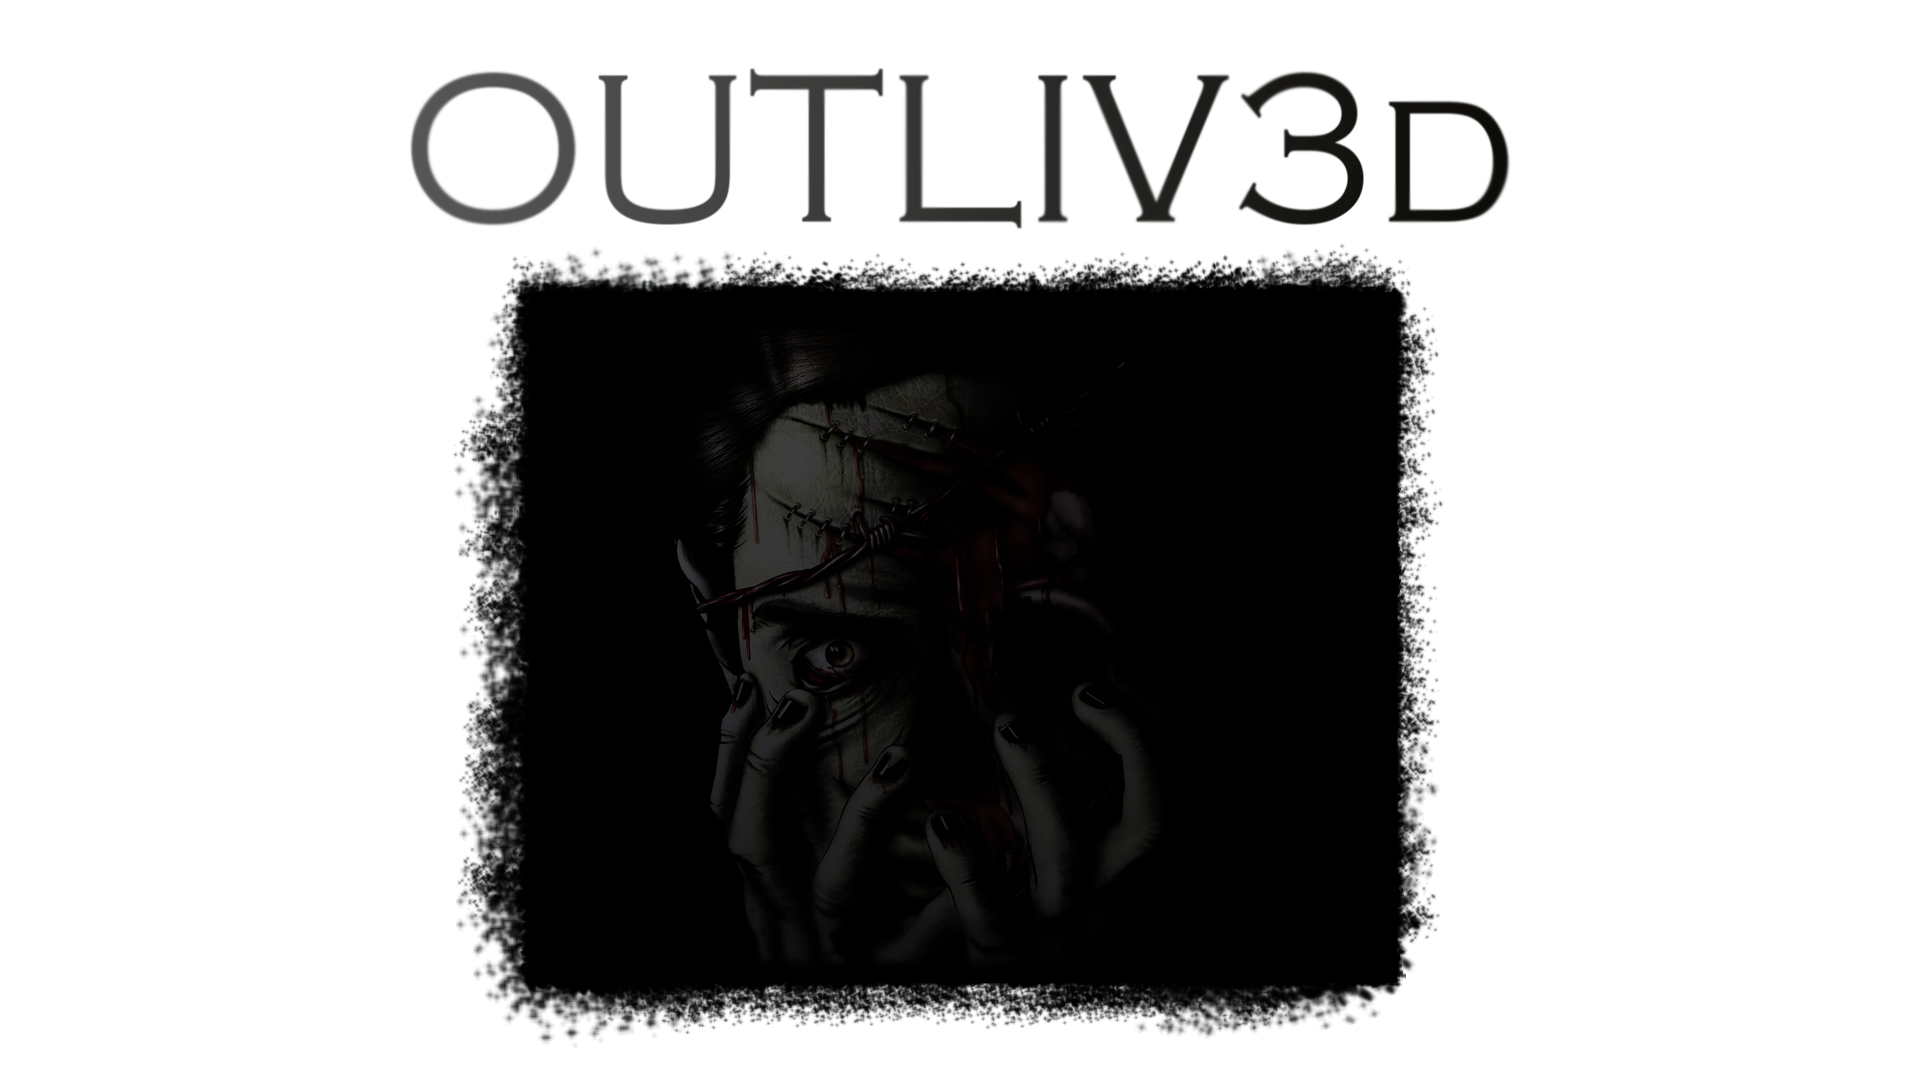
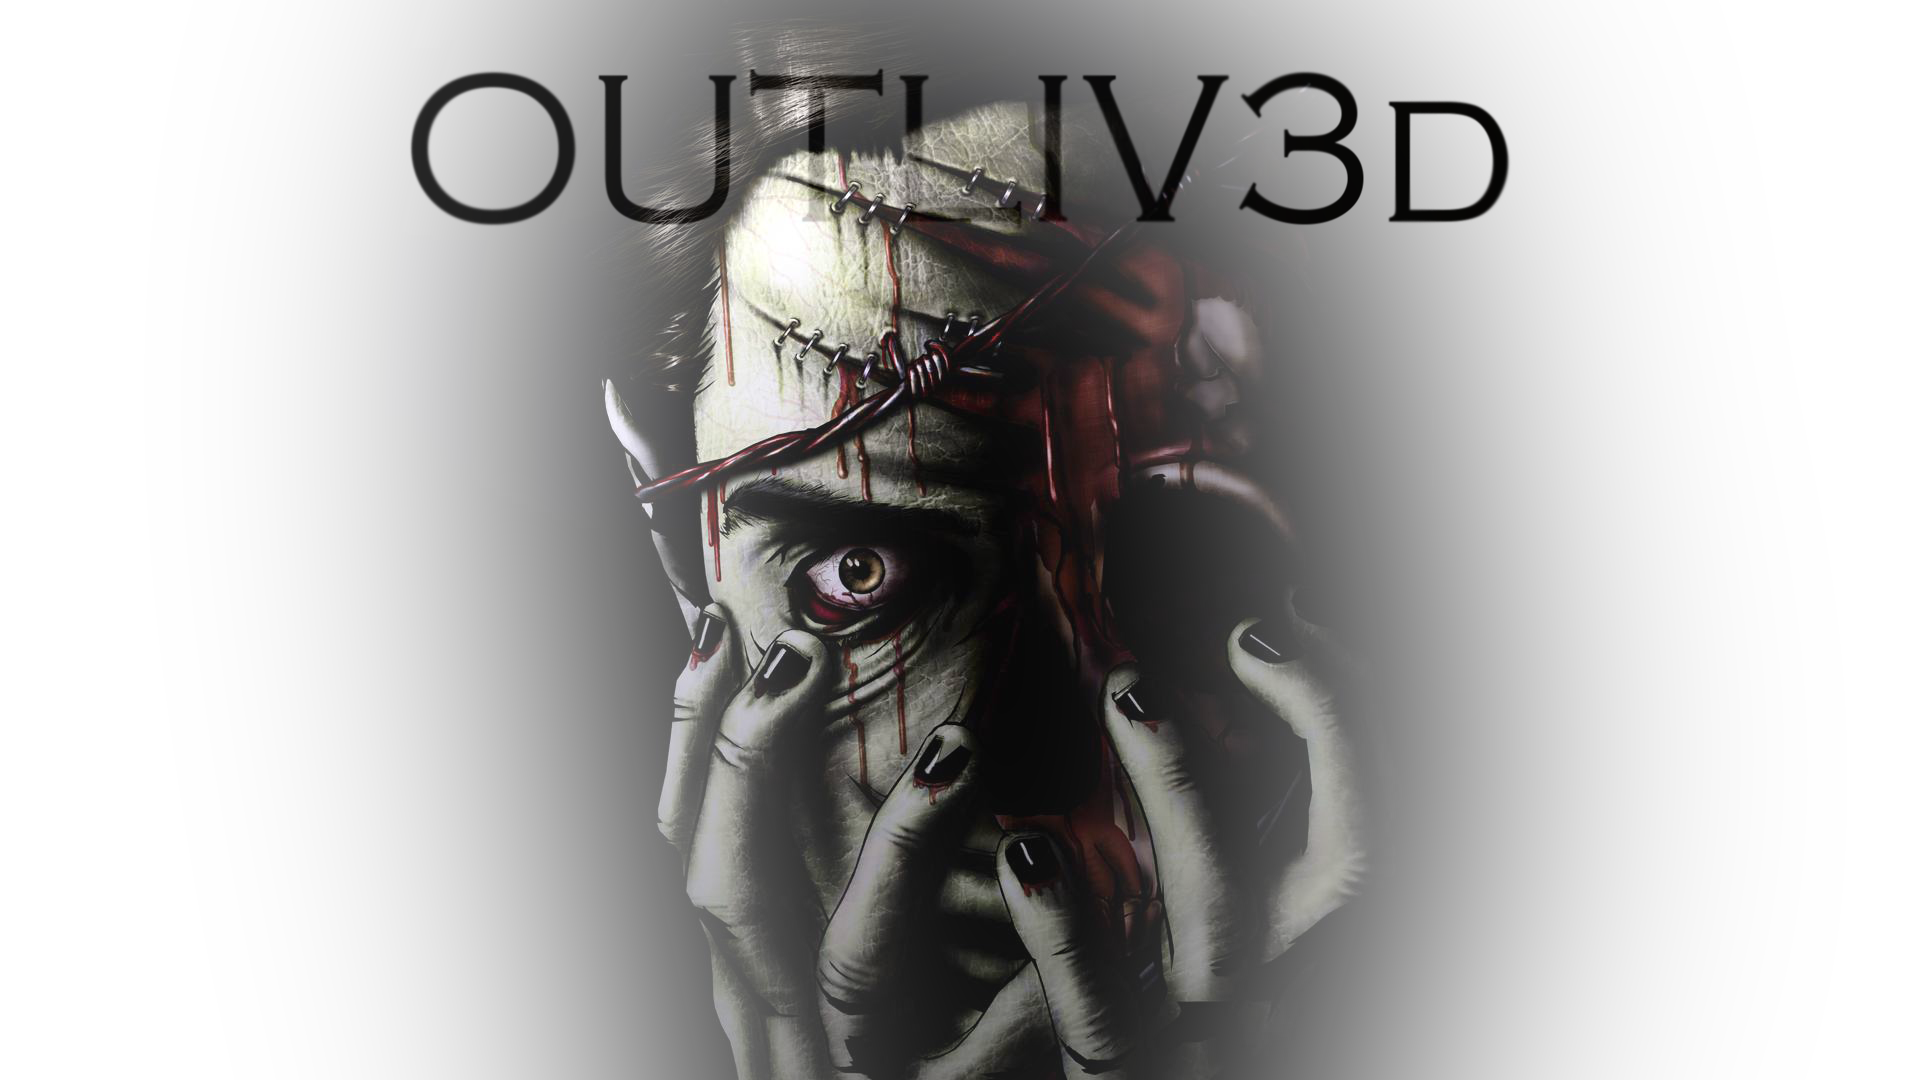
menu

diff --git a/Game/Services/MenuHelper.cs b/Game/Services/MenuHelper.cs
@@ -5,7 +5,13 @@ namespace Game.Services
 {
     public class MenuHelper
     {
-        public static void DrawBackground(SpriteBatch sb, GameContent gameContent)
+       // private GameManager gm;
+        //private bool moveRight = false;
+       //public MenuHelper(GameManager gm)
+       //{
+       //    this.gm = gm;
+       //}
+        public static void DrawBackgroundWithScaling(SpriteBatch sb, GameContent gameContent, float speed)
         {
             if (GameManager.Scale <= GameManager.MaxScale && GameManager.Scale >= GameManager.MinScale)
             {
@@ -20,11 +26,11 @@ namespace Game.Services
 
                 if (GameManager.MoveHigher)
                 {
-                    GameManager.Scale = GameManager.Scale + 0.0001f;
+                    GameManager.Scale = GameManager.Scale + speed;
                 }
                 else
                 {
-                    GameManager.Scale = GameManager.Scale - 0.0001f;
+                    GameManager.Scale = GameManager.Scale - speed;
                 }
             }
 
@@ -34,6 +40,85 @@ namespace Game.Services
                 color: Color.White,
                 scale: new Vector2(GameManager.Scale)
             );
+        }
+
+        //public static void DrawBackgroundMovingSideways(SpriteBatch sb, GameContent gameContent, Viewport viewport, float speed)
+        //{
+        //    var bounds = gameContent.BackgroundFog.Bounds;
+        //   // var viewport = gm.Engine.Dependencies.GraphicsDeviceManager.GraphicsDevice.Viewport;
+        //    Vector2 position = Vector2.Zero;
+        //    Vector2 Offset = Vector2.Zero;
+
+        //    if (GameManager.Scale <= GameManager.MaxScale && GameManager.Scale >= GameManager.MinScale)
+        //    {
+        //        if (viewport.X <= bounds.X)
+        //        {
+        //            GameManager.MoveRight = true;
+        //        }
+        //        if (viewport.X >= viewport.Width - bounds.Width)
+        //        {
+        //            GameManager.MoveRight = false;
+        //        }
+
+        //        if (GameManager.MoveRight)
+        //        {
+        //            //Calculate the distance to move our image, based on speed
+        //            Vector2 distance = direction * Speed * elapsed;
+
+        //            //Update our offset
+        //            Offset += distance;
+        //            position = new Vector2(bounds.X - speed);
+        //        }
+        //        else
+        //        {
+        //            position = new Vector2(bounds.X + speed);
+        //        }
+        //    }
+
+        //    sb.Draw(gameContent.BackgroundFog, new Vector2(viewport.X, viewport.Y), Rectangle, Color.White, 0, Vector2.Zero, 1, SpriteEffects.None, 1);
+        //}
+
+        public class Background
+        {
+            private Texture2D Texture;      //The image to use
+            private Vector2 Offset;         //Offset to start drawing our image
+            public Vector2 Speed;           //Speed of movement of our parallax effect
+            public float Zoom;              //Zoom level of our image
+
+            private Viewport Viewport;      //Our game viewport
+
+            //Calculate Rectangle dimensions, based on offset/viewport/zoom values
+            private Rectangle Rectangle
+            {
+                get { return new Rectangle((int)(Offset.X), (int)(Offset.Y), (int)(Viewport.Width / Zoom), (int)(Viewport.Height / Zoom)); }
+            }
+
+            public Background(Texture2D texture, Vector2 speed, float zoom)
+            {
+                Texture = texture;
+                Offset = Vector2.Zero;
+                Speed = speed;
+                Zoom = zoom;
+            }
+
+            public void Update(GameTime gametime, Vector2 direction, Viewport viewport)
+            {
+                float elapsed = (float)gametime.ElapsedGameTime.TotalSeconds;
+
+                //Store the viewport
+                Viewport = viewport;
+
+                //Calculate the distance to move our image, based on speed
+                Vector2 distance = direction * Speed * elapsed;
+
+                //Update our offset
+                Offset += distance;
+            }
+
+            public void Draw(SpriteBatch spriteBatch)
+            {
+                spriteBatch.Draw(Texture, new Vector2(Viewport.X, Viewport.Y), Rectangle, Color.White, 0, Vector2.Zero, Zoom, SpriteEffects.None, 1);
+            }
         }
     }
 }

diff --git a/Game/Menu/States/MainMenu.cs b/Game/Menu/States/MainMenu.cs
@@ -21,6 +21,8 @@ namespace Game.Menu.States
         private OptionsState currentPosition = OptionsState.Continue;
         private Viewport viewport;
         private SpriteBatch sb = GameDependencies.Instance.SpriteBatch;
+        private MenuHelper.Background fogBackground;
+        private MenuHelper.Background mainBackground;
 
         // different menu options
         private enum OptionsState
@@ -36,6 +38,8 @@ namespace Game.Menu.States
             game = this.gameManager.Engine.Dependencies.Game;
             controls = new ControlsConfig(0, 2, gameManager);
             viewport = game.GraphicsDevice.Viewport;
+            mainBackground = new MenuHelper.Background(gameManager.GameContent.Background, new Vector2(10, 10), 1.5f);
+            fogBackground = new MenuHelper.Background(gameManager.GameContent.BackgroundFog, new Vector2(30, 30), 1);
         }
 
 
@@ -48,7 +52,7 @@ namespace Game.Menu.States
             String textExit = "TAKE THE EASY WAY OUT";
 
             sb.Draw(gameManager.GameContent.MainOptionsBackground, viewport.Bounds, Color.White);
-
+            fogBackground.Draw(sb);
             sb.DrawString(gameManager.GameContent.MenuFont, textContinue, new Vector2(600, viewport.Height * 0.45f), Color.White);
             sb.DrawString(gameManager.GameContent.MenuFont, textEscape, new Vector2(600, viewport.Height * 0.55f), Color.White);
             sb.DrawString(gameManager.GameContent.MenuFont, textExit, new Vector2(600, viewport.Height * 0.65f), Color.White);
@@ -71,7 +75,11 @@ namespace Game.Menu.States
         public void Draw(GameTime gameTime, SpriteBatch spriteBatch)
         {
             spriteBatch.Begin();
-            MenuHelper.DrawBackground(spriteBatch, gameManager.GameContent);
+            MenuHelper.DrawBackgroundWithScaling(spriteBatch, gameManager.GameContent, 0f);
+            mainBackground.Draw(spriteBatch);
+            
+            
+           // MenuHelper.DrawBackgroundMovingSideways(spriteBatch, gameManager.GameContent, viewport, 5f);
             MainMenuDisplay();
             spriteBatch.End();
         }
@@ -81,7 +89,9 @@ namespace Game.Menu.States
         // depending on which option we currently are at.
         public void Update(GameTime gameTime)
         {
-            // playing beatiful background music.
+            fogBackground.Update(gameTime, new Vector2(1,0),viewport);
+            //mainBackground.Update(gameTime, new Vector2(1, 0), viewport);
+            // playing beatiful mainBackground music.
             if (MediaPlayer.State == MediaState.Stopped)
             {
                 MediaPlayer.Volume = 0.8f;

diff --git a/Game/Menu/States/MultiplayerMenu.cs b/Game/Menu/States/MultiplayerMenu.cs
@@ -74,7 +74,7 @@ namespace Game.Menu.States
         {
 
             spriteBatch.Begin();
-            MenuHelper.DrawBackground(spriteBatch, gameManager.GameContent);
+            MenuHelper.DrawBackgroundWithScaling(spriteBatch, gameManager.GameContent, 0.0001f);
 
             // We check if the players are connected. If they are,
             // we draw their option state on the screen.
@@ -97,6 +97,7 @@ namespace Game.Menu.States
         // are to be done.
         public void Update(GameTime gameTime)
         {
+            controls.GoBackButton();
             // If doing it with the keyboard.
             // state interval for n player's not the
             // same as for the 3 options states, So
@@ -128,7 +129,7 @@ namespace Game.Menu.States
             PlayerThreeChoice = (TeamState)controls.MoveOptionPositionHorizontally((int)PlayerThreeChoice, PlayerIndex.Three);
             PlayerFourChoice = (TeamState)controls.MoveOptionPositionHorizontally((int)PlayerFourChoice, PlayerIndex.Four);
 
-            // controls.GoBackButton();
+            
 
             // Need atleast one player to proceed
             // Proceed if continue is pressed

diff --git a/Game/GameContent.cs b/Game/GameContent.cs
@@ -18,6 +18,7 @@ namespace Game
         public Video IntroVideo;
         public Song BackgroundSong;
         public Texture2D Background;
+        public Texture2D BackgroundFog;
         public Texture2D CreditsBackground;
         public Texture2D PauseBackground;
 
@@ -64,6 +65,7 @@ namespace Game
             BackgroundSong = game.Content.Load<Song>("Sound/creepyPiano");
             MainOptionsBackground = game.Content.Load<Texture2D>("Images/Menu/mainoptions");
             Background = game.Content.Load<Texture2D>("Images/Menu/background3");
+            BackgroundFog = game.Content.Load<Texture2D>("Images/Menu/movingfog");
 
             // Credits
             CreditsBackground = game.Content.Load<Texture2D>("Images/Menu/credits");

diff --git a/Game/Menu/States/CharacterMenu.cs b/Game/Menu/States/CharacterMenu.cs
@@ -82,7 +82,7 @@ namespace Game.Menu.States
         public void Draw(GameTime gameTime, SpriteBatch spriteBatch)
         {
             spriteBatch.Begin();
-            MenuHelper.DrawBackground(spriteBatch, gameManager.GameContent);
+            MenuHelper.DrawBackgroundWithScaling(spriteBatch, gameManager.GameContent, 0.0001f);
             MainMenuDisplay();
             spriteBatch.End();
         }
@@ -125,7 +125,7 @@ namespace Game.Menu.States
                 currentPlayer = null;
                 currentPosition = CharacterState.FirstCharacter;
             }
-            // controls.GoBackButton();
+            controls.GoBackButton();
 
         }
     }

diff --git a/Game/Menu/States/GameModeMenu.cs b/Game/Menu/States/GameModeMenu.cs
@@ -55,13 +55,14 @@ namespace Game.Menu.States
         public void Draw(GameTime gameTime, SpriteBatch spriteBatch)
         {
             spriteBatch.Begin();
-            MenuHelper.DrawBackground(spriteBatch, gameManager.GameContent);
+            MenuHelper.DrawBackgroundWithScaling(spriteBatch, gameManager.GameContent, 0.0001f);
             MainMenuDisplay();
             spriteBatch.End();
         }
 
         public void Update(GameTime gameTime)
         {
+            controls.GoBackButton();
             currentPosition = (OptionsState)controls.MoveOptionPositionVertically((int)currentPosition);
 
             switch (currentPosition)

diff --git a/Game/Services/ControlsConfig.cs b/Game/Services/ControlsConfig.cs
@@ -126,9 +126,10 @@ namespace Game.Services
                 || newState.IsKeyDown(Keys.Back) && gameManager.OldKeyboardState.IsKeyUp(Keys.Back))
             {          
                 gameManager.CurrentGameState = gameManager.PreviousGameState;
+                gameManager.OldKeyboardState = newState;
+                gameManager.OldGamepadState = gamePadState;
             }
-            gameManager.OldKeyboardState = newState;
-            gameManager.OldGamepadState = gamePadState;
+
 
         }
 

diff --git a/Game/Menu/States/Credits.cs b/Game/Menu/States/Credits.cs
@@ -29,7 +29,7 @@ namespace Game.Menu.States
         public void Draw(GameTime gameTime, SpriteBatch spriteBatch)
         {
             spriteBatch.Begin();
-            MenuHelper.DrawBackground(spriteBatch, gameManager.GameContent);
+            MenuHelper.DrawBackgroundWithScaling(spriteBatch, gameManager.GameContent, 0.0001f);
             sb.Draw(gameManager.GameContent.CreditsBackground, viewport.Bounds, Color.White);
             spriteBatch.End();
         }

diff --git a/Game/Menu/GameManager.cs b/Game/Menu/GameManager.cs
@@ -22,6 +22,7 @@ namespace Game
         public const float MaxScale = 2.0f;
         public static float Scale { get; set; } = 1.0f;
         public static bool MoveHigher { get; set; } = true;
+        public static bool MoveRight { get; set; } = true;
 
         private SpriteBatch sb = GameDependencies.Instance.SpriteBatch;
 
